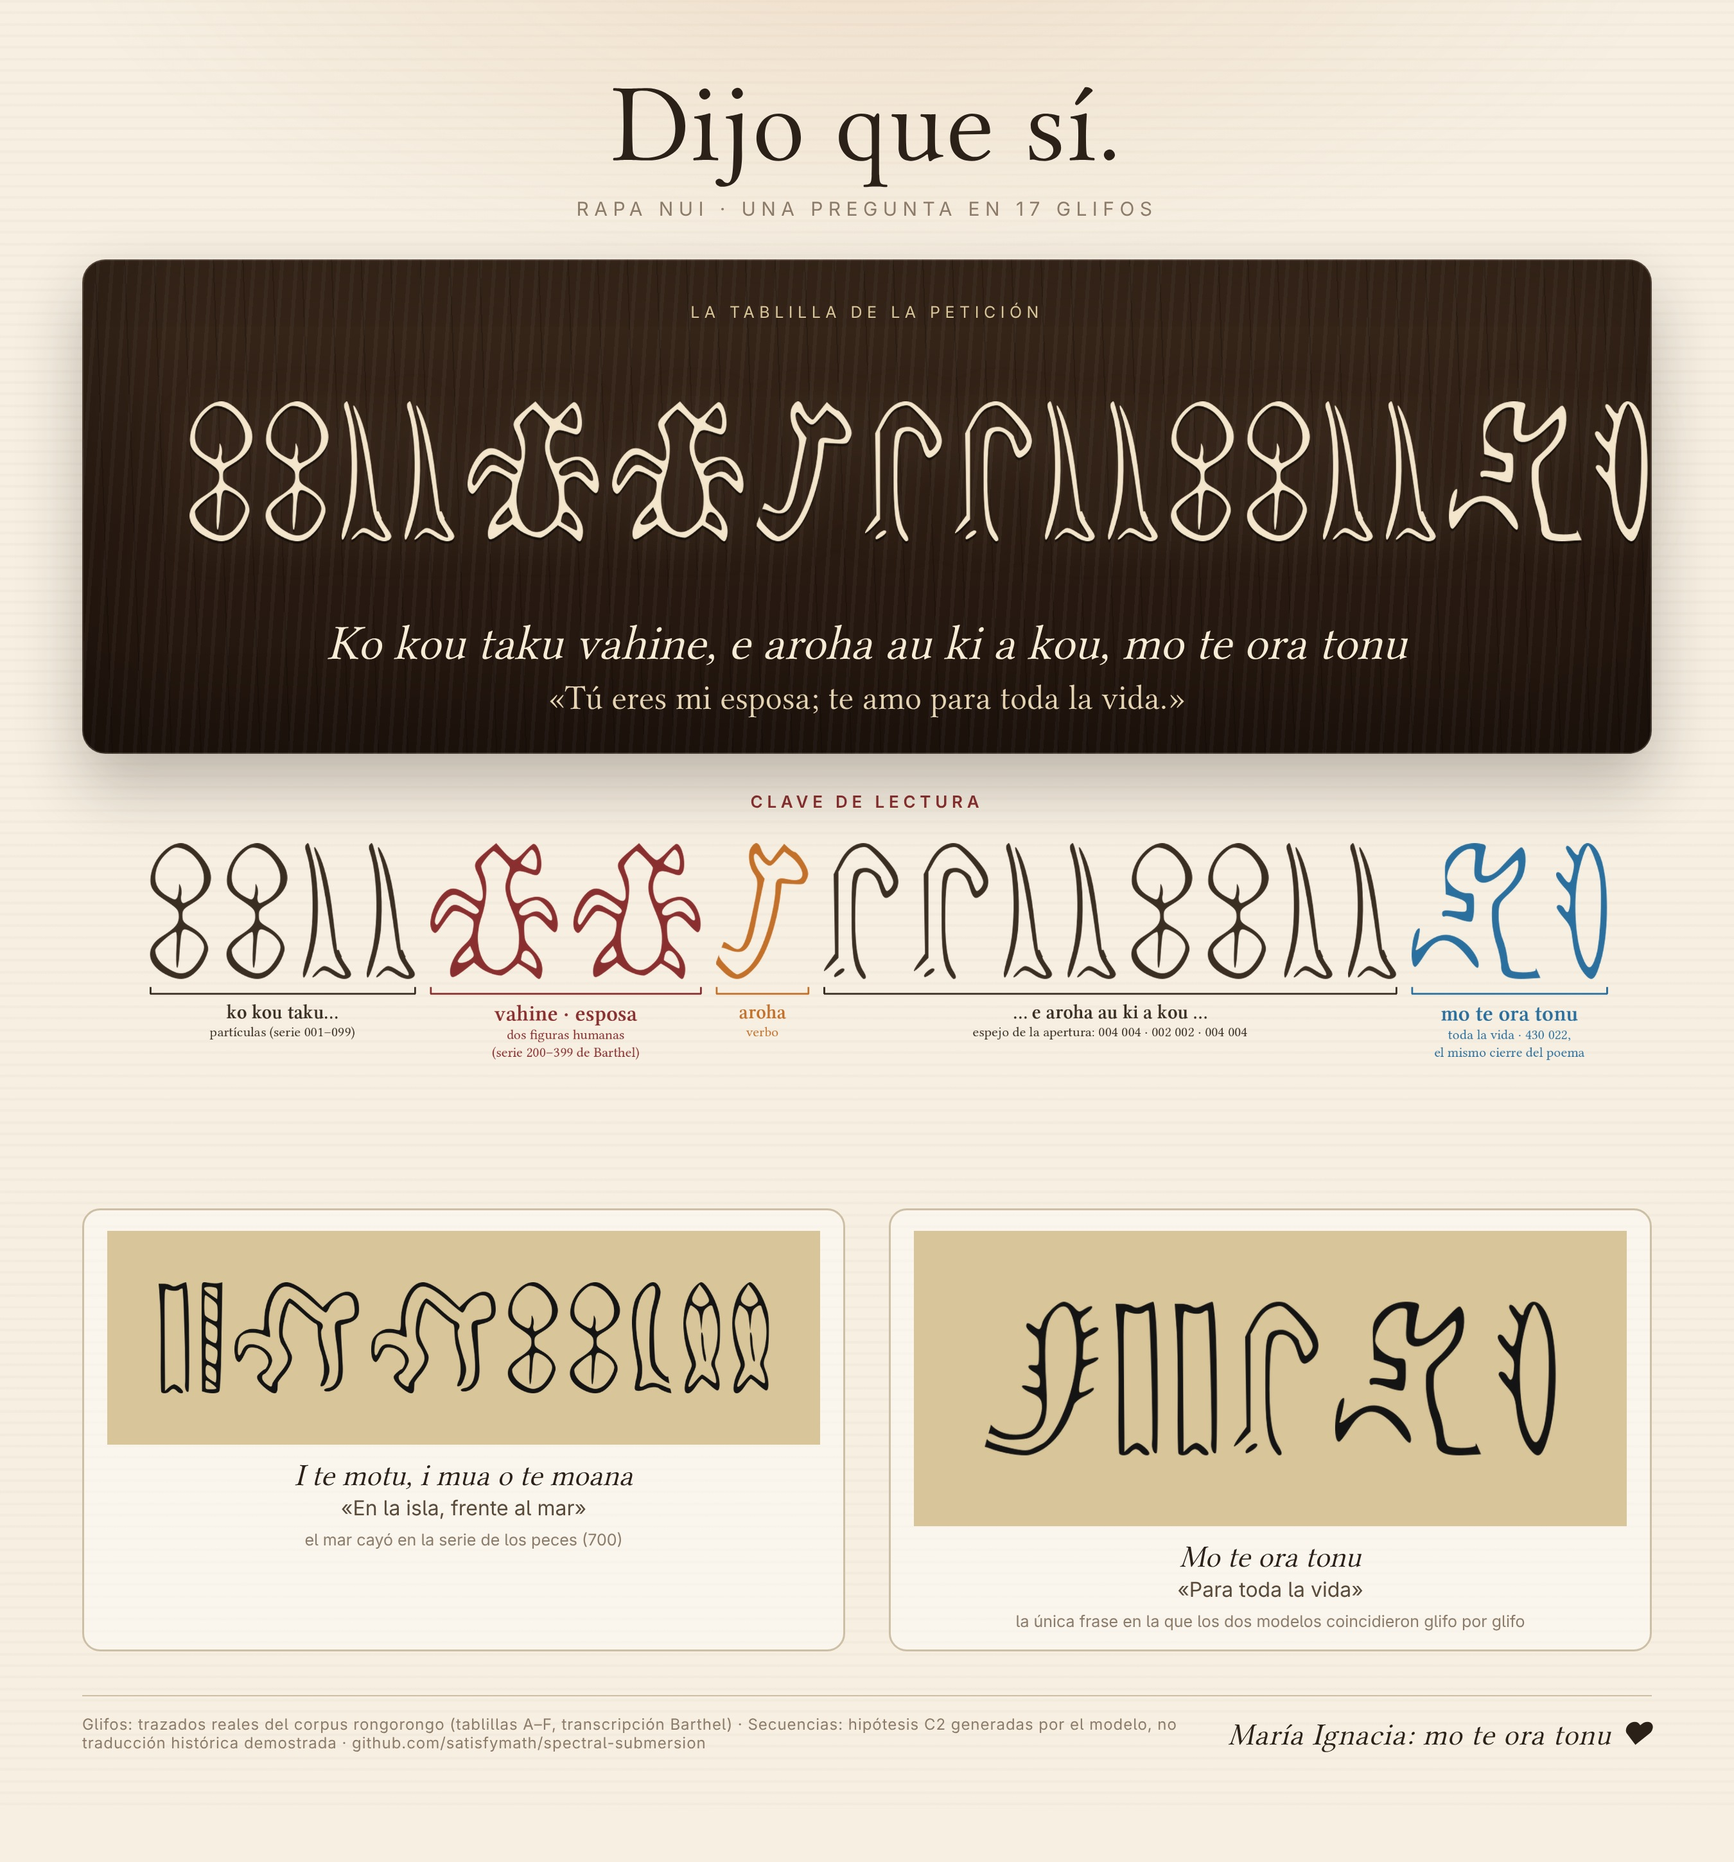
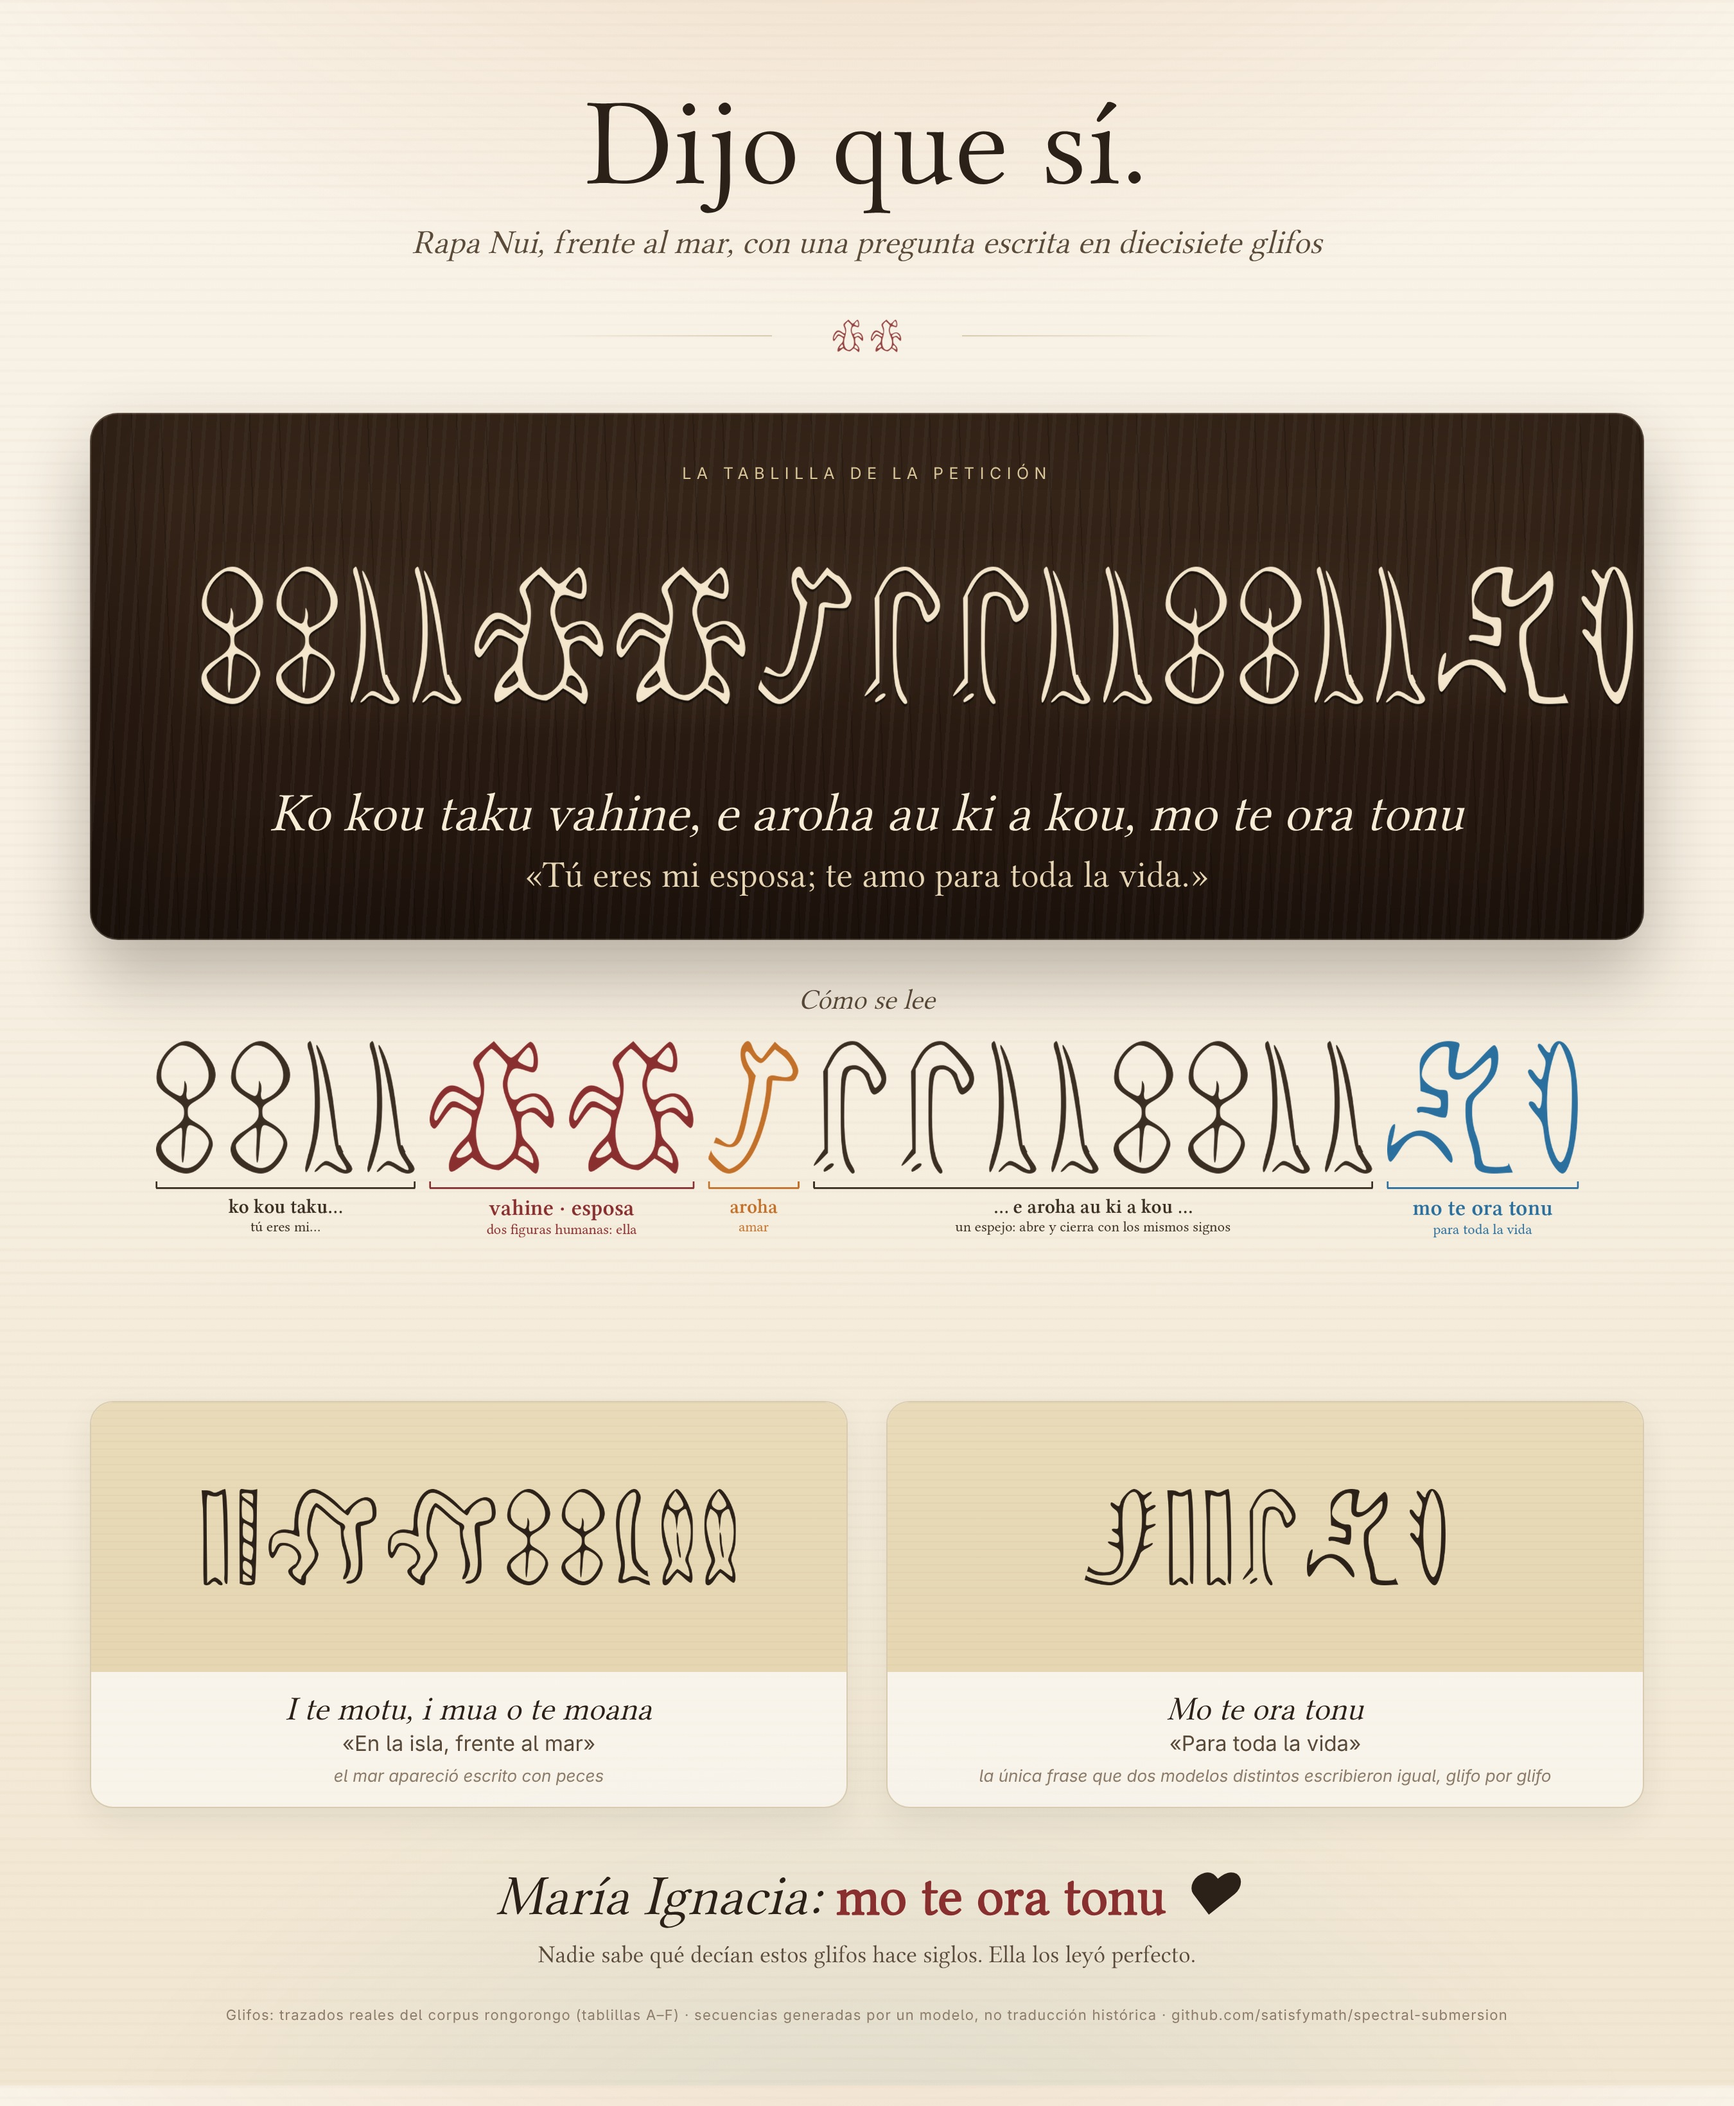
Polish the LinkedIn post composition

diff --git a/infografia/post_linkedin.html b/infografia/post_linkedin.html
@@ -1,46 +1,62 @@
 <!doctype html><html lang="es"><head><meta charset="utf-8"><style>
-:root{--ivory:#f6efe2;--ink:#2b2118;--ink2:#5a4a3a;--muted:#8c7b68;--burdeos:#8a2f2f;--line:#cdbfa6;--wood:#2a1b12;--wood2:#3a281b}
+:root{--ivory:#f7f0e3;--ink:#2b2118;--ink2:#5a4a3a;--muted:#8c7b68;--burdeos:#8a2f2f;--line:#d8cbb1;--sand:#e6d6b2;--wood:#2a1b12;--wood2:#3a281b}
 *{box-sizing:border-box;margin:0;padding:0}
-html,body{width:1350px;background:var(--ivory);color:var(--ink);font-family:"Adwaita Sans","Montserrat",sans-serif}
-body{background:radial-gradient(900px 400px at 50% -60px, rgba(194,112,42,.13), transparent 70%),repeating-linear-gradient(180deg, rgba(120,90,50,.028) 0 2px, transparent 2px 9px),var(--ivory)}
-.page{padding:54px 64px 44px}
+html,body{width:1350px;color:var(--ink);font-family:"Adwaita Sans","Montserrat",sans-serif}
+body{background:
+  radial-gradient(1100px 520px at 50% -120px, rgba(194,112,42,.16), transparent 70%),
+  radial-gradient(900px 600px at 50% 108%, rgba(42,111,158,.10), transparent 70%),
+  repeating-linear-gradient(180deg, rgba(120,90,50,.025) 0 2px, transparent 2px 9px),
+  linear-gradient(180deg,#f9f3e8,var(--ivory) 40%,#f1e6d1)}
+.page{padding:64px 70px 48px}
 .serif{font-family:"Libertinus Serif Display","Libertinus Serif",serif}
-h1{font-family:"Libertinus Serif Display",serif;font-size:86px;font-weight:600;text-align:center;line-height:1;letter-spacing:.01em}
-.sub{text-align:center;font-size:15px;letter-spacing:.28em;text-transform:uppercase;color:var(--muted);margin-top:14px}
-.hero{margin-top:30px;border-radius:18px;padding:34px 40px 28px;color:#f3e6cc;position:relative;
+h1{font-family:"Libertinus Serif Display",serif;font-size:96px;font-weight:600;text-align:center;line-height:1;letter-spacing:.005em}
+.sub{text-align:center;font-family:"Libertinus Serif Display",serif;font-style:italic;font-size:26px;color:var(--ink2);margin-top:14px}
+.orn{display:flex;align-items:center;justify-content:center;gap:22px;margin:20px 0 0;color:var(--muted)}
+.orn i{display:block;width:180px;height:1px;background:linear-gradient(90deg,transparent,var(--line));}
+.orn i.r{background:linear-gradient(90deg,var(--line),transparent)}
+.orn img{height:76px;opacity:.9}
+.hero{margin-top:22px;border-radius:22px;padding:40px 44px 34px;color:#f3e6cc;position:relative;
   background:repeating-linear-gradient(94deg, rgba(255,255,255,.035) 0 3px, transparent 3px 11px),repeating-linear-gradient(88deg, rgba(0,0,0,.18) 0 1px, transparent 1px 23px),linear-gradient(180deg,var(--wood2),var(--wood) 55%,#1f140d);
-  box-shadow:0 24px 50px rgba(43,33,24,.28), inset 0 0 0 1px rgba(243,230,204,.18), inset 0 0 100px rgba(0,0,0,.35)}
-.hero .k{font-size:12.5px;letter-spacing:.3em;text-transform:uppercase;color:#d9c59a;text-align:center}
-.hero img{width:1222px;display:block;margin:18px auto 14px;filter:drop-shadow(0 2px 0 rgba(0,0,0,.5)) drop-shadow(0 0 16px rgba(217,197,154,.18))}
-.hero .rap{font-family:"Libertinus Serif Display",serif;font-style:italic;font-size:38px;text-align:center;color:#f7ecd6}
-.hero .es{font-family:"Libertinus Serif Display",serif;font-size:27px;text-align:center;color:#e6d5b5;margin-top:6px}
-.key{margin-top:30px;text-align:center}
-.key img{width:1240px;display:block;margin:0 auto}
-.key .t{font-size:13px;letter-spacing:.26em;text-transform:uppercase;color:var(--burdeos);font-weight:600;margin-bottom:10px}
-.two{display:grid;grid-template-columns:1fr 1fr;gap:34px;margin-top:30px}
-.card{border:1.5px solid var(--line);border-radius:14px;padding:16px 18px 14px;background:rgba(255,255,255,.42);text-align:center}
-.card img{width:100%;height:auto;display:block;margin:0 auto}
-.card .rap{font-family:"Libertinus Serif Display",serif;font-style:italic;font-size:24px;margin-top:10px}
-.card .es{font-size:16px;color:var(--ink2);margin-top:2px}
-.card .n{font-size:12.5px;color:var(--muted);margin-top:8px}
-.foot{margin-top:34px;display:flex;justify-content:space-between;align-items:flex-end;border-top:1px solid var(--line);padding-top:14px;font-size:12px;color:var(--muted);letter-spacing:.04em}
-.foot .sig{font-family:"Libertinus Serif Display",serif;font-style:italic;font-size:24px;color:var(--ink);white-space:nowrap;margin-left:30px}
+  box-shadow:0 28px 56px rgba(43,33,24,.30), inset 0 0 0 1px rgba(243,230,204,.2), inset 0 0 110px rgba(0,0,0,.35)}
+.hero .k{font-size:12.5px;letter-spacing:.34em;text-transform:uppercase;color:#d9c59a;text-align:center}
+.hero img{width:1200px;display:block;margin:22px auto 18px;filter:drop-shadow(0 2px 0 rgba(0,0,0,.5)) drop-shadow(0 0 18px rgba(217,197,154,.22))}
+.hero .rap{font-family:"Libertinus Serif Display",serif;font-style:italic;font-size:42px;text-align:center;color:#f7ecd6}
+.hero .es{font-family:"Libertinus Serif Display",serif;font-size:29px;text-align:center;color:#e6d5b5;margin-top:8px}
+.key{margin-top:34px;text-align:center}
+.key .t{font-family:"Libertinus Serif Display",serif;font-style:italic;font-size:22px;color:var(--ink2);margin-bottom:6px}
+.key img{width:1210px;display:block;margin:0 auto}
+.two{display:grid;grid-template-columns:1fr 1fr;gap:30px;margin-top:26px}
+.card{border-radius:18px;overflow:hidden;background:rgba(255,255,255,.5);border:1px solid var(--line);box-shadow:0 10px 26px rgba(43,33,24,.08)}
+.card .tab{height:210px;display:grid;place-items:center;background:
+  repeating-linear-gradient(180deg, rgba(120,90,50,.04) 0 1px, transparent 1px 6px),linear-gradient(180deg,#e9dbb9,var(--sand))}
+.card .tab img{height:150px}
+.card .tx{padding:14px 18px 16px;text-align:center}
+.card .rap{font-family:"Libertinus Serif Display",serif;font-style:italic;font-size:26px}
+.card .es{font-size:16.5px;color:var(--ink2);margin-top:2px}
+.card .n{font-size:13px;color:var(--muted);margin-top:8px;font-style:italic}
+.close{margin-top:40px;text-align:center}
+.close .sig{font-family:"Libertinus Serif Display",serif;font-style:italic;font-size:44px;color:var(--ink)}
+.close .sig b{color:var(--burdeos);font-style:normal}
+.close .line{font-family:"Libertinus Serif Display",serif;font-size:19px;color:var(--ink2);margin-top:10px}
+.foot{margin-top:30px;text-align:center;font-size:11px;letter-spacing:.06em;color:var(--muted)}
 </style></head><body><div class="page">
 <h1>Dijo que sí.</h1>
-<div class="sub">Rapa Nui · una pregunta en 17 glifos</div>
+<div class="sub">Rapa Nui, frente al mar, con una pregunta escrita en diecisiete glifos</div>
+<div class="orn"><i></i><img src="orn_280.png"><i class="r"></i></div>
 <div class="hero">
  <div class="k">La tablilla de la petición</div>
  <img src="hero_glyphs.png">
  <div class="rap">Ko kou taku vahine, e aroha au ki a kou, mo te ora tonu</div>
  <div class="es">«Tú eres mi esposa; te amo para toda la vida.»</div>
 </div>
-<div class="key"><div class="t">Clave de lectura</div><img src="clave_bare.png"></div>
+<div class="key"><div class="t">Cómo se lee</div><img src="clave_bare_poetic.png"></div>
 <div class="two">
- <div class="card"><img src="../reports/figures/tablilla_motu_moana.png"><div class="rap">I te motu, i mua o te moana</div><div class="es">«En la isla, frente al mar»</div><div class="n">el mar cayó en la serie de los peces (700)</div></div>
- <div class="card"><img src="../reports/figures/tablilla_mo_te_ora_tonu.png"><div class="rap">Mo te ora tonu</div><div class="es">«Para toda la vida»</div><div class="n">la única frase en la que los dos modelos coincidieron glifo por glifo</div></div>
+ <div class="card"><div class="tab"><img src="card_motu.png"></div><div class="tx"><div class="rap">I te motu, i mua o te moana</div><div class="es">«En la isla, frente al mar»</div><div class="n">el mar apareció escrito con peces</div></div></div>
+ <div class="card"><div class="tab"><img src="card_ora.png"></div><div class="tx"><div class="rap">Mo te ora tonu</div><div class="es">«Para toda la vida»</div><div class="n">la única frase que dos modelos distintos escribieron igual, glifo por glifo</div></div></div>
 </div>
-<div class="foot">
- <div>Glifos: trazados reales del corpus rongorongo (tablillas A–F, transcripción Barthel) · Secuencias: hipótesis C2 generadas por el modelo, no traducción histórica demostrada · github.com/satisfymath/spectral-submersion</div>
- <div class="sig">María Ignacia: mo te ora tonu ❤</div>
+<div class="close">
+ <div class="sig">María Ignacia: <b>mo te ora tonu</b> ❤</div>
+ <div class="line">Nadie sabe qué decían estos glifos hace siglos. Ella los leyó perfecto.</div>
 </div>
+<div class="foot">Glifos: trazados reales del corpus rongorongo (tablillas A–F) · secuencias generadas por un modelo, no traducción histórica · github.com/satisfymath/spectral-submersion</div>
 </div></body></html>

diff --git a/infografia/build_key.py b/infografia/build_key.py
@@ -42,11 +42,19 @@ def bracket(i0, i1, col, lines, yb):
         f = font(sz, italic=it, bold=(j == 0))
         w = d.textlength(txt, font=f); d.text((cx - w / 2, yy), txt, fill=col, font=f); yy += int(sz * SC) + 8
 yb = y0 + H + 18
-bracket(0, 3, INK, [("ko kou taku…", 30, True), ("partículas (serie 001–099)", 22, False)], yb)
-bracket(4, 5, BURDEOS, [("vahine · esposa", 34, True), ("dos figuras humanas", 22, False), ("(serie 200–399 de Barthel)", 22, False)], yb)
-bracket(6, 6, COBRE, [("aroha", 30, True), ("verbo", 22, False)], yb)
-bracket(7, 14, INK, [("… e aroha au ki a kou …", 30, True), ("espejo de la apertura: 004 004 · 002 002 · 004 004", 22, False)], yb)
-bracket(15, 16, AZUL, [("mo te ora tonu", 34, True), ("toda la vida · 430 022,", 22, False), ("el mismo cierre del poema", 22, False)], yb)
+POETIC = os.environ.get("KEY_POETIC") == "1"
+if POETIC:
+    bracket(0, 3, INK, [("ko kou taku…", 30, True), ("tú eres mi…", 22, False)], yb)
+    bracket(4, 5, BURDEOS, [("vahine · esposa", 34, True), ("dos figuras humanas: ella", 22, False)], yb)
+    bracket(6, 6, COBRE, [("aroha", 30, True), ("amar", 22, False)], yb)
+    bracket(7, 14, INK, [("… e aroha au ki a kou …", 30, True), ("un espejo: abre y cierra con los mismos signos", 22, False)], yb)
+    bracket(15, 16, AZUL, [("mo te ora tonu", 34, True), ("para toda la vida", 22, False)], yb)
+else:
+  bracket(0, 3, INK, [("ko kou taku…", 30, True), ("partículas (serie 001–099)", 22, False)], yb)
+  bracket(4, 5, BURDEOS, [("vahine · esposa", 34, True), ("dos figuras humanas", 22, False), ("(serie 200–399 de Barthel)", 22, False)], yb)
+  bracket(6, 6, COBRE, [("aroha", 30, True), ("verbo", 22, False)], yb)
+  bracket(7, 14, INK, [("… e aroha au ki a kou …", 30, True), ("espejo de la apertura: 004 004 · 002 002 · 004 004", 22, False)], yb)
+  bracket(15, 16, AZUL, [("mo te ora tonu", 34, True), ("toda la vida · 430 022,", 22, False), ("el mismo cierre del poema", 22, False)], yb)
 import os
 BARE = os.environ.get("KEY_BARE") == "1"
 if not BARE:
@@ -57,7 +65,7 @@ if not BARE:
     d.text(((W - d.textlength(t2, font=f2)) / 2, canvas.height - 60), t2, fill="#6a5a48", font=f2)
 if BARE:
     canvas = canvas.crop((0, 60, W, canvas.height - int(40 * SC)))
-    canvas.save("infografia/clave_bare.png")
+    canvas.save("infografia/clave_bare_poetic.png" if POETIC else "infografia/clave_bare.png")
 else:
     canvas.convert("RGB").save("reports/figures/clave_lectura_peticion.png", quality=95)
 print("saved", canvas.size)
